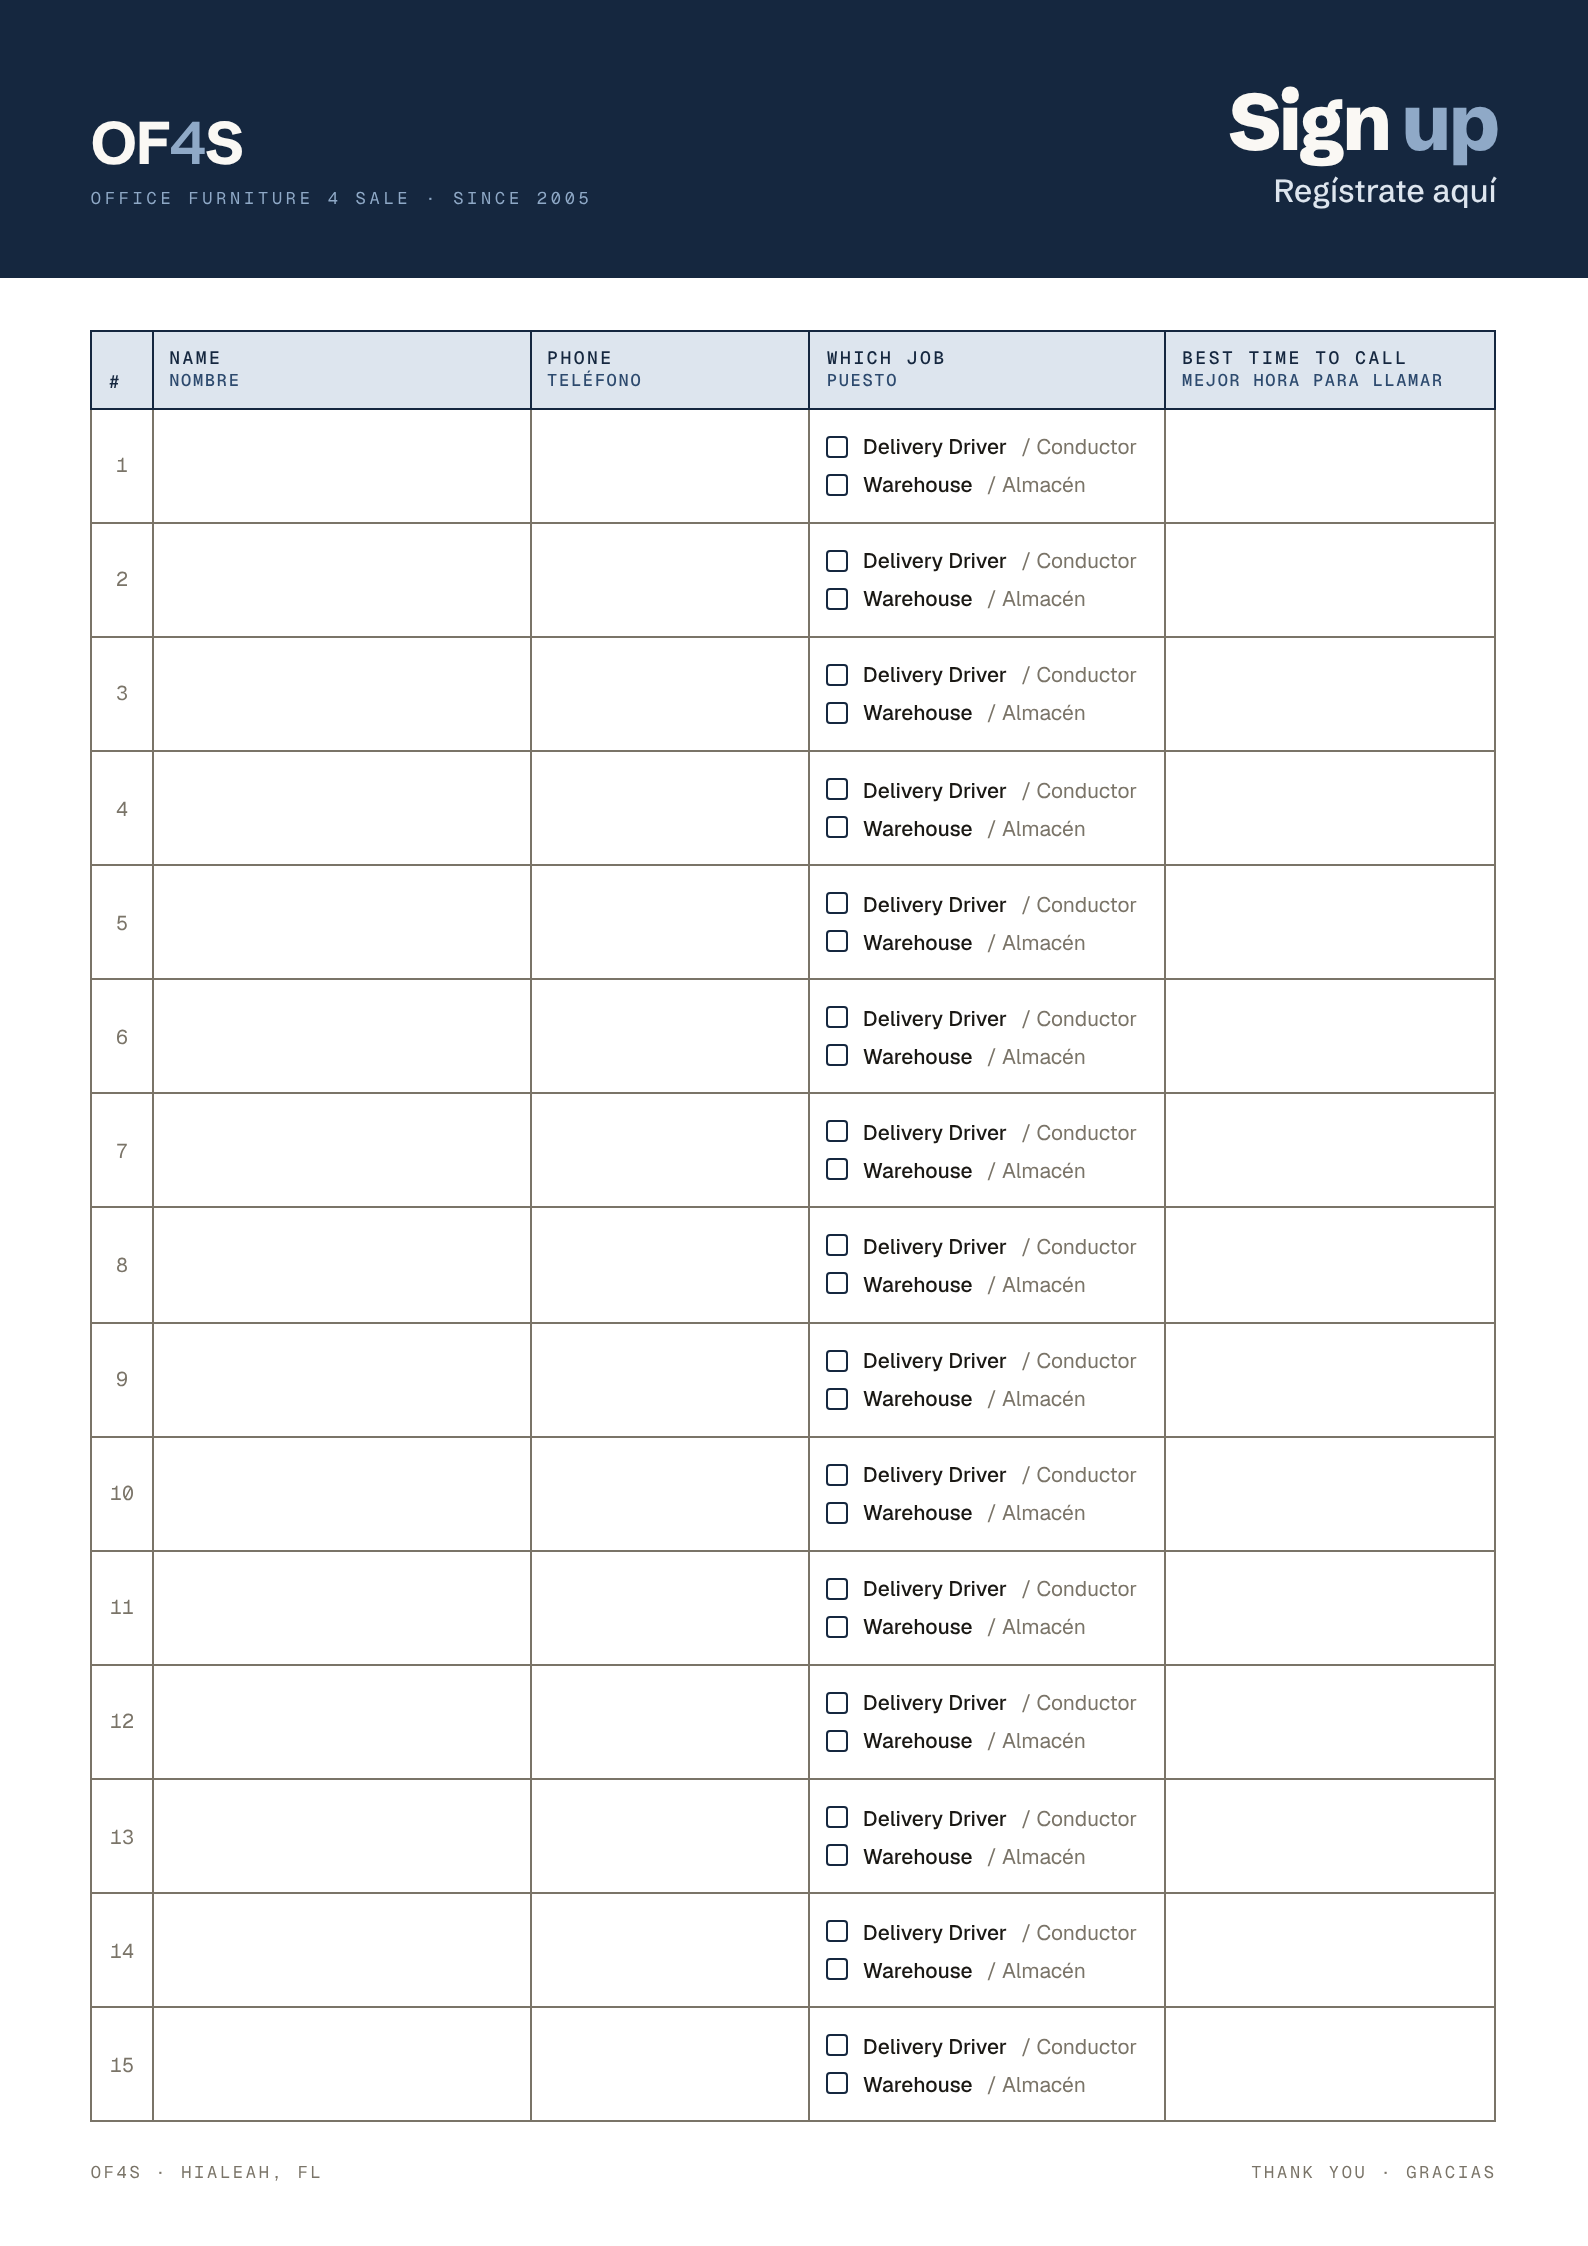
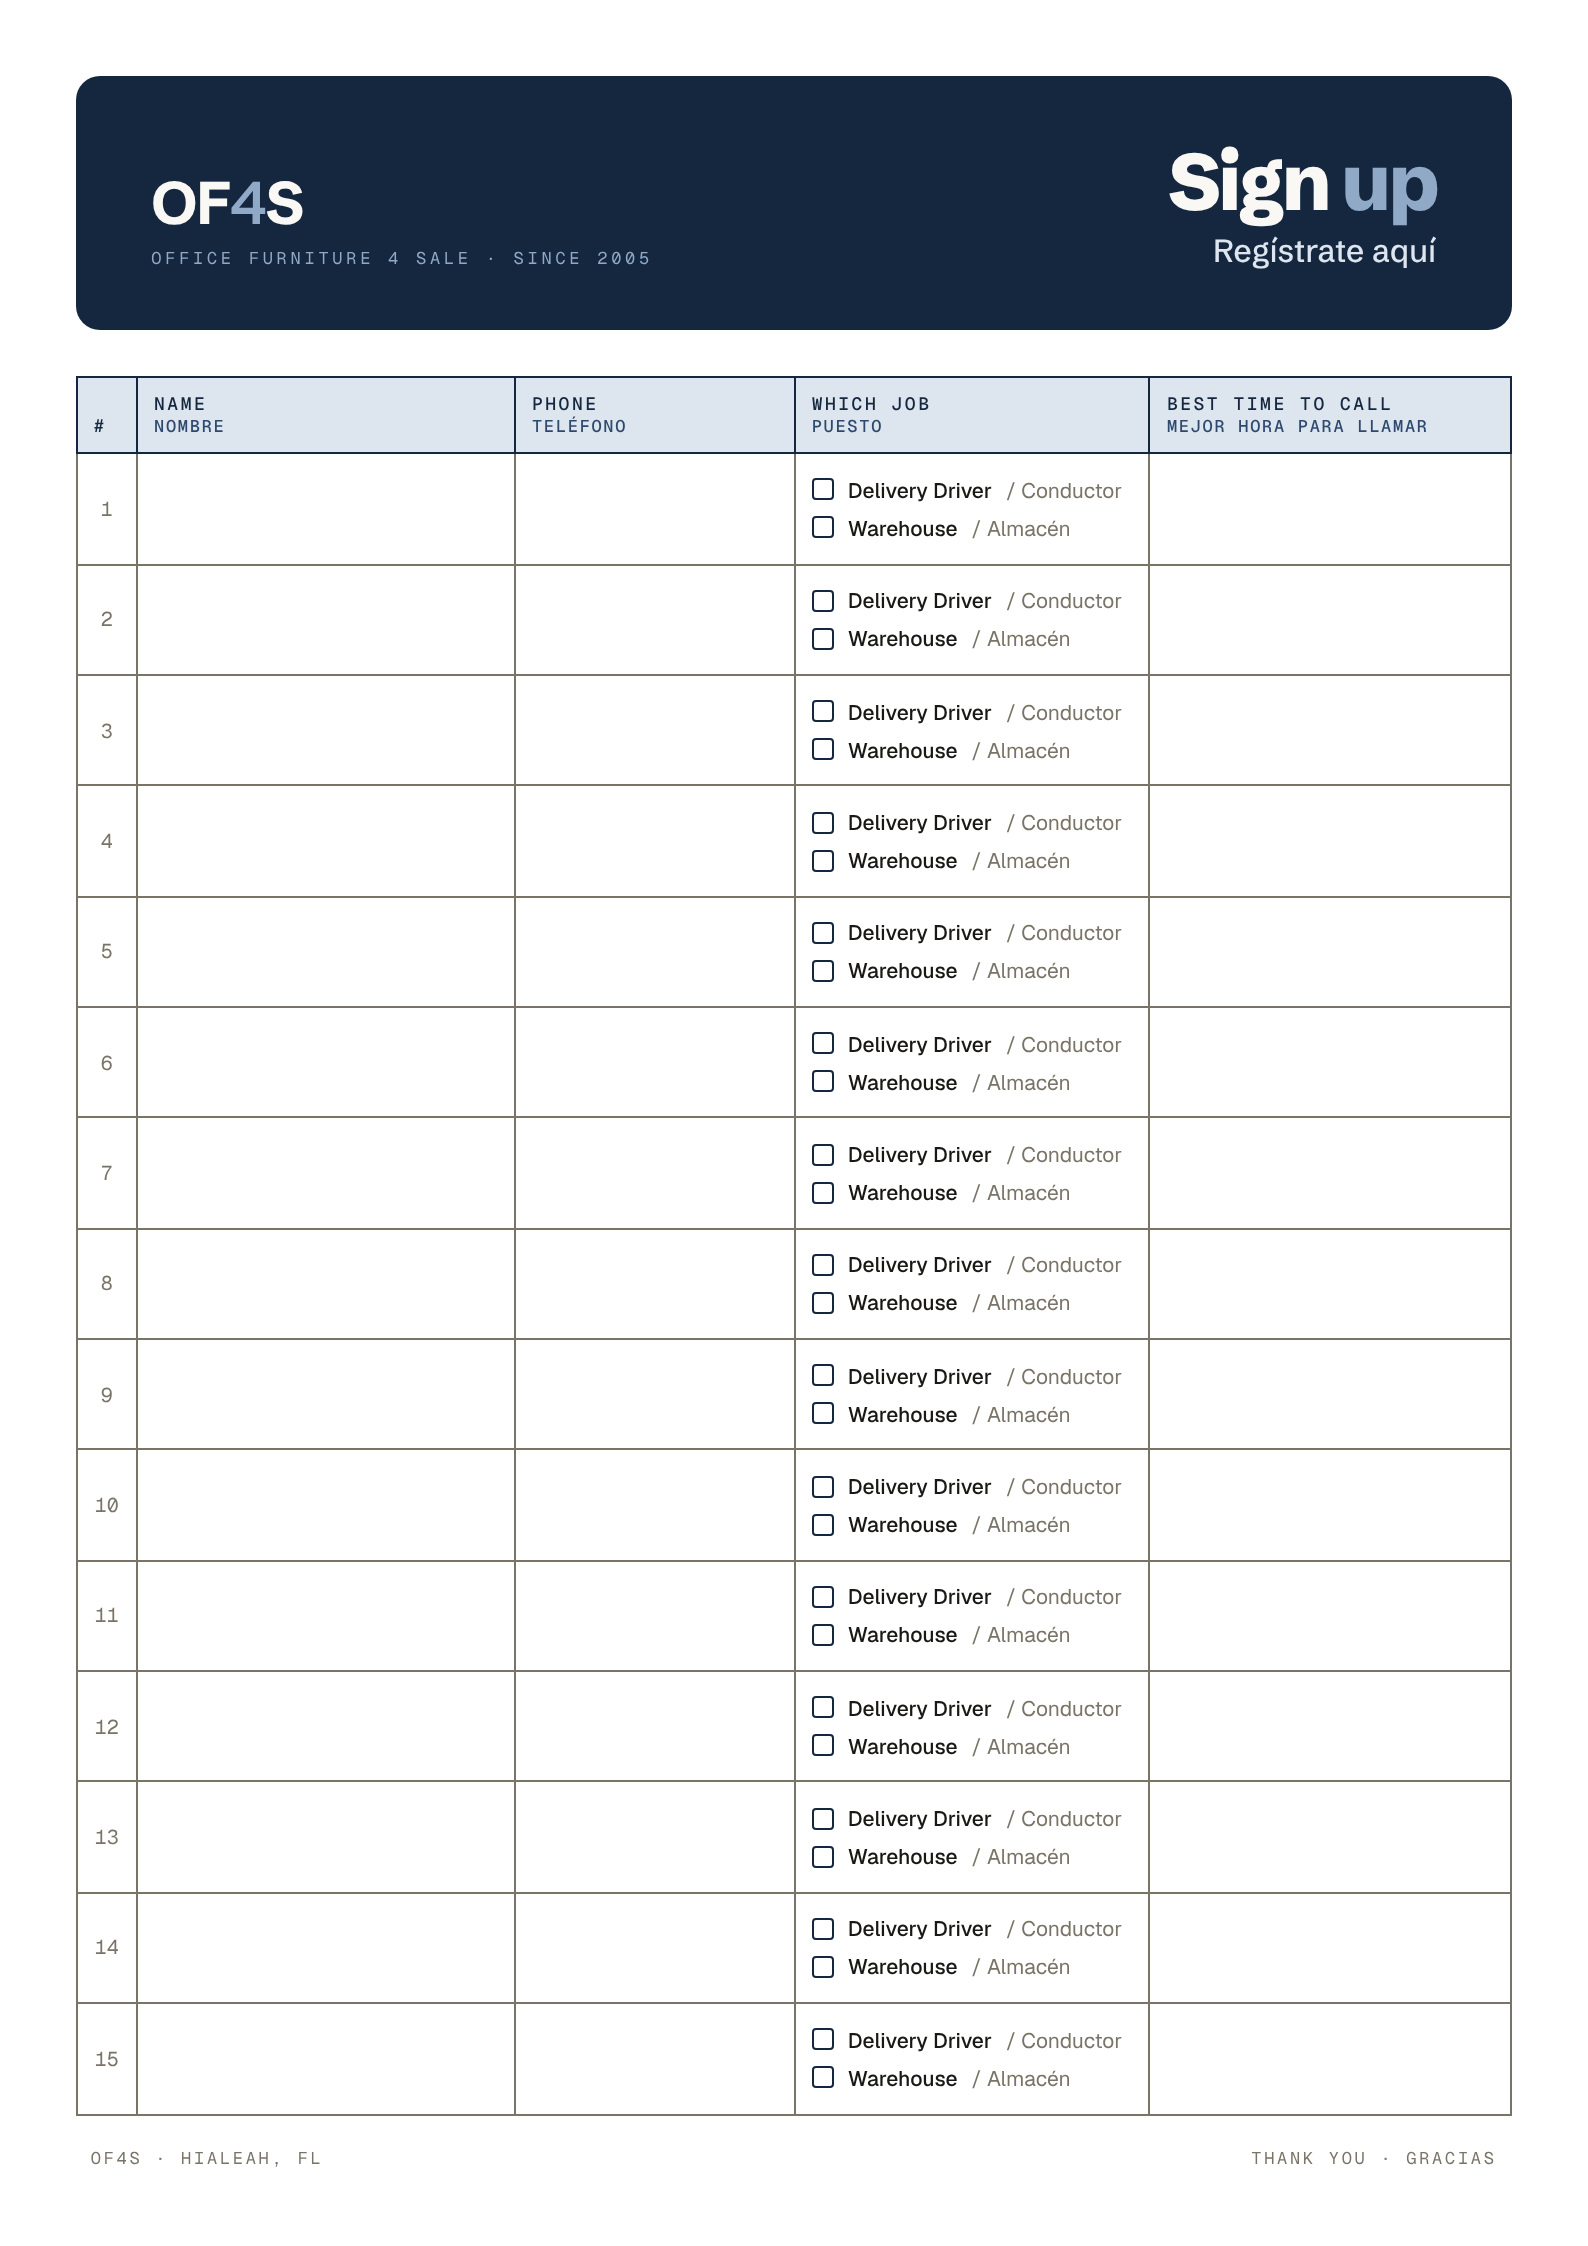
Sign-up sheet: add 10mm print-safe margin so it prints at 100% on home printers
Claude-Session: https://claude.ai/code/session_01PFCTSxW3jeQpBt85EuCUuL

diff --git a/collateral/career-fair-2026/signup-sheet.html b/collateral/career-fair-2026/signup-sheet.html
@@ -19,9 +19,9 @@
   body { font-family: var(--sans); color: var(--stone-900); -webkit-print-color-adjust: exact; print-color-adjust: exact; }
   em { font-style: normal; }
 
-  .page { width: 210mm; height: 297mm; overflow: hidden; display: flex; flex-direction: column; background: #fff; }
+  .page { width: 210mm; height: 297mm; overflow: hidden; display: flex; flex-direction: column; background: #fff; padding: 10mm; }
 
-  .hero { background: var(--navy-800); color: var(--paper-50); padding: 11mm 12mm 9mm; display: flex; justify-content: space-between; align-items: flex-end; }
+  .hero { background: var(--navy-800); color: var(--paper-50); padding: 9mm 10mm 8mm; border-radius: 12px; display: flex; justify-content: space-between; align-items: flex-end; }
   .brand { font-family: var(--display); font-weight: 700; font-size: 30px; letter-spacing: -0.02em; line-height: 1; }
   .brand .four { color: var(--navy-300); font-weight: 600; }
   .brand-cap { font-family: var(--mono); font-size: 8.5px; letter-spacing: 0.22em; text-transform: uppercase; color: var(--navy-300); margin-top: 6px; }
@@ -29,10 +29,10 @@
   h1 em { color: var(--navy-300); }
   .es { font-family: var(--display); font-weight: 500; font-size: 16px; color: var(--navy-100); text-align: right; margin-top: 5px; }
 
-  table { flex: 1; width: calc(100% - 24mm); margin: 7mm 12mm 0; border-collapse: collapse; table-layout: fixed; }
+  table { flex: 1; width: 100%; margin: 6mm 0 0; border-collapse: collapse; table-layout: fixed; }
   th { font-family: var(--mono); font-weight: 500; font-size: 9px; letter-spacing: 0.14em; text-transform: uppercase; color: var(--navy-800); text-align: left; background: var(--navy-100); padding: 7px 8px; border: 1px solid var(--navy-800); line-height: 1.35; vertical-align: bottom; }
   th small { display: block; font-size: 8.5px; letter-spacing: 0.1em; color: var(--navy-600); }
-  td { border: 1px solid var(--stone-500); height: 13.3mm; padding: 0 8px; }
+  td { border: 1px solid var(--stone-500); height: 13mm; padding: 0 8px; }
   td.n { font-family: var(--mono); font-size: 10px; color: var(--stone-500); text-align: center; padding: 0; }
   td.job { padding: 0 8px; }
   .jobs { display: flex; flex-direction: column; gap: 5px; }
@@ -40,7 +40,7 @@
   .cb i { width: 11px; height: 11px; border: 1.5px solid var(--navy-800); border-radius: 2px; flex: none; }
   .cb span { color: var(--stone-500); font-weight: 400; }
 
-  .foot { padding: 5mm 12mm 8mm; display: flex; justify-content: space-between; align-items: center; font-family: var(--mono); font-size: 8.5px; letter-spacing: 0.16em; text-transform: uppercase; color: var(--stone-500); }
+  .foot { padding: 4mm 2mm 0; display: flex; justify-content: space-between; align-items: center; font-family: var(--mono); font-size: 8.5px; letter-spacing: 0.16em; text-transform: uppercase; color: var(--stone-500); }
 </style>
 </head>
 <body>
